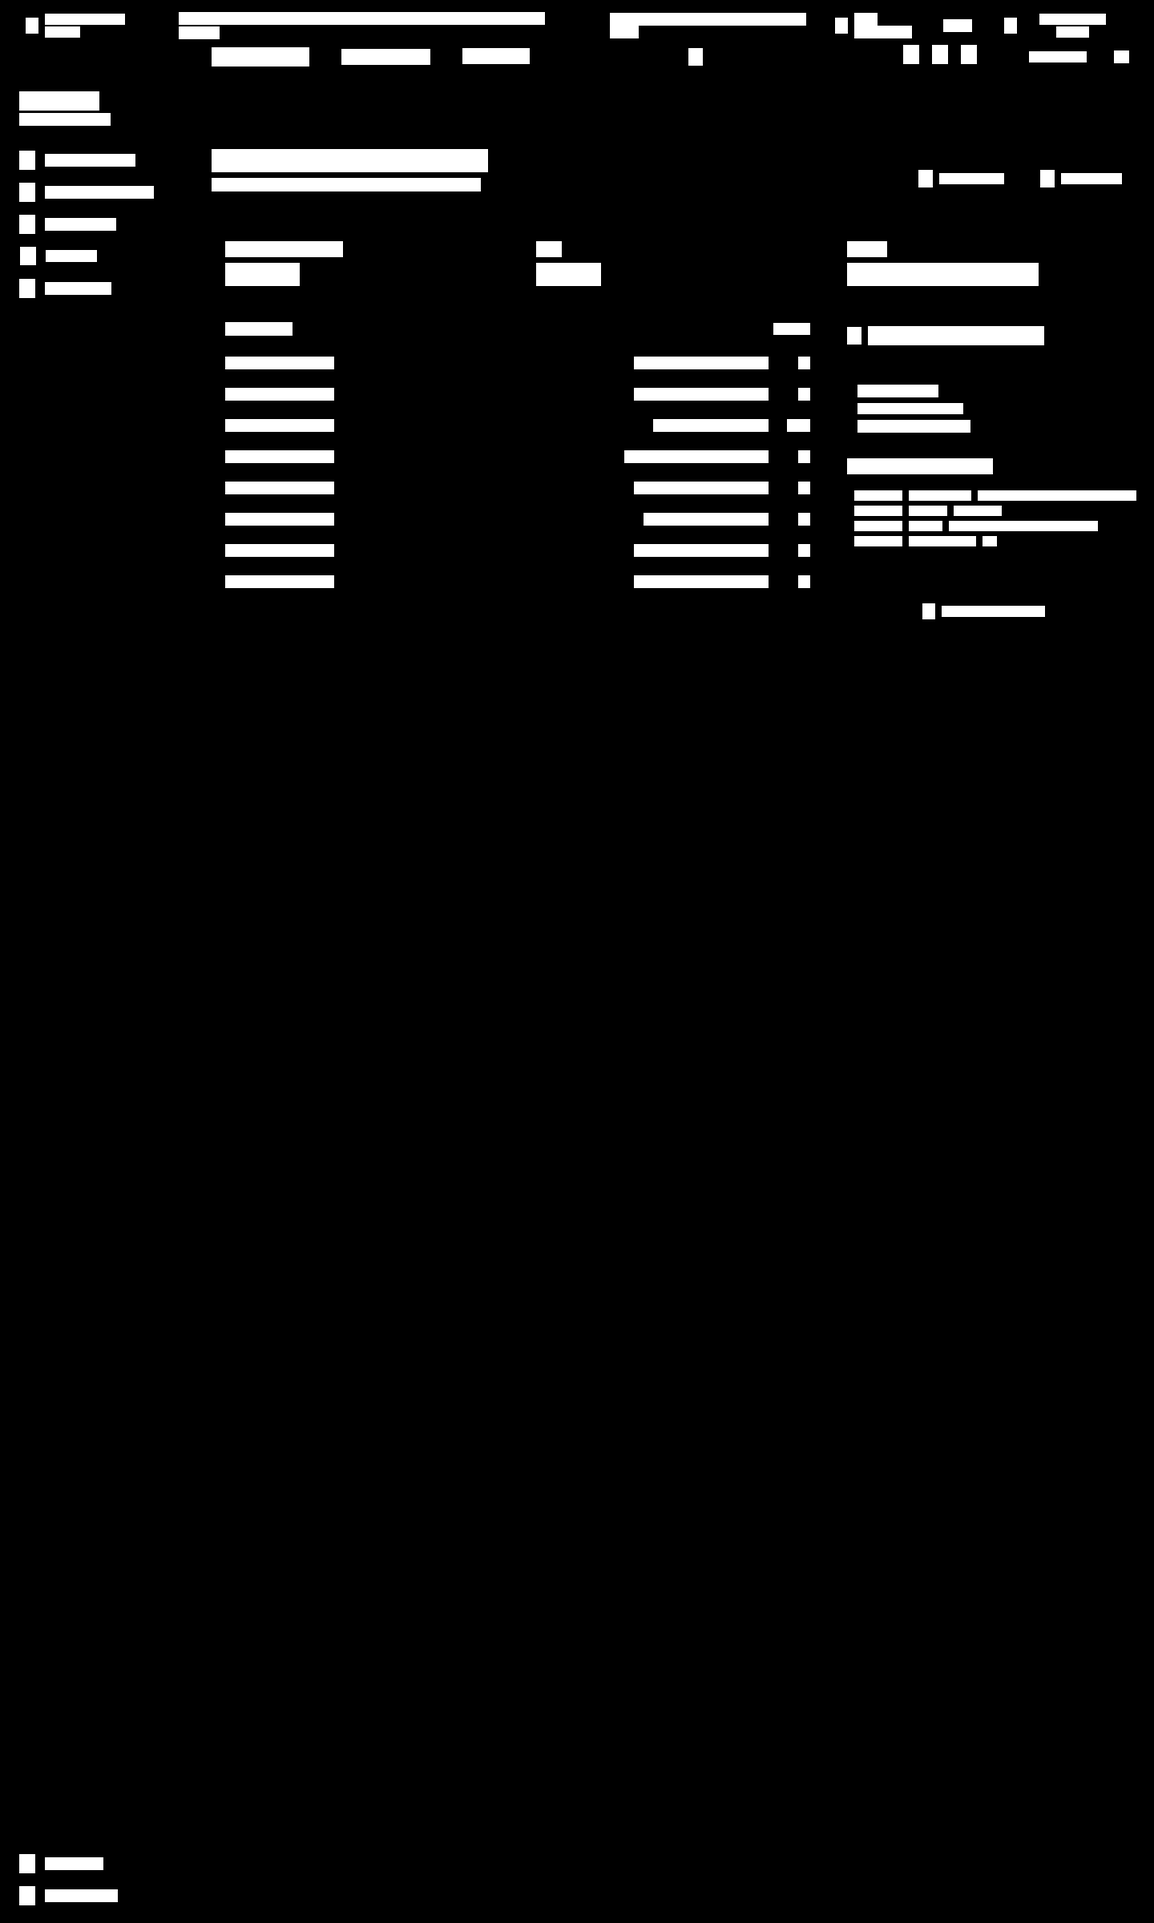
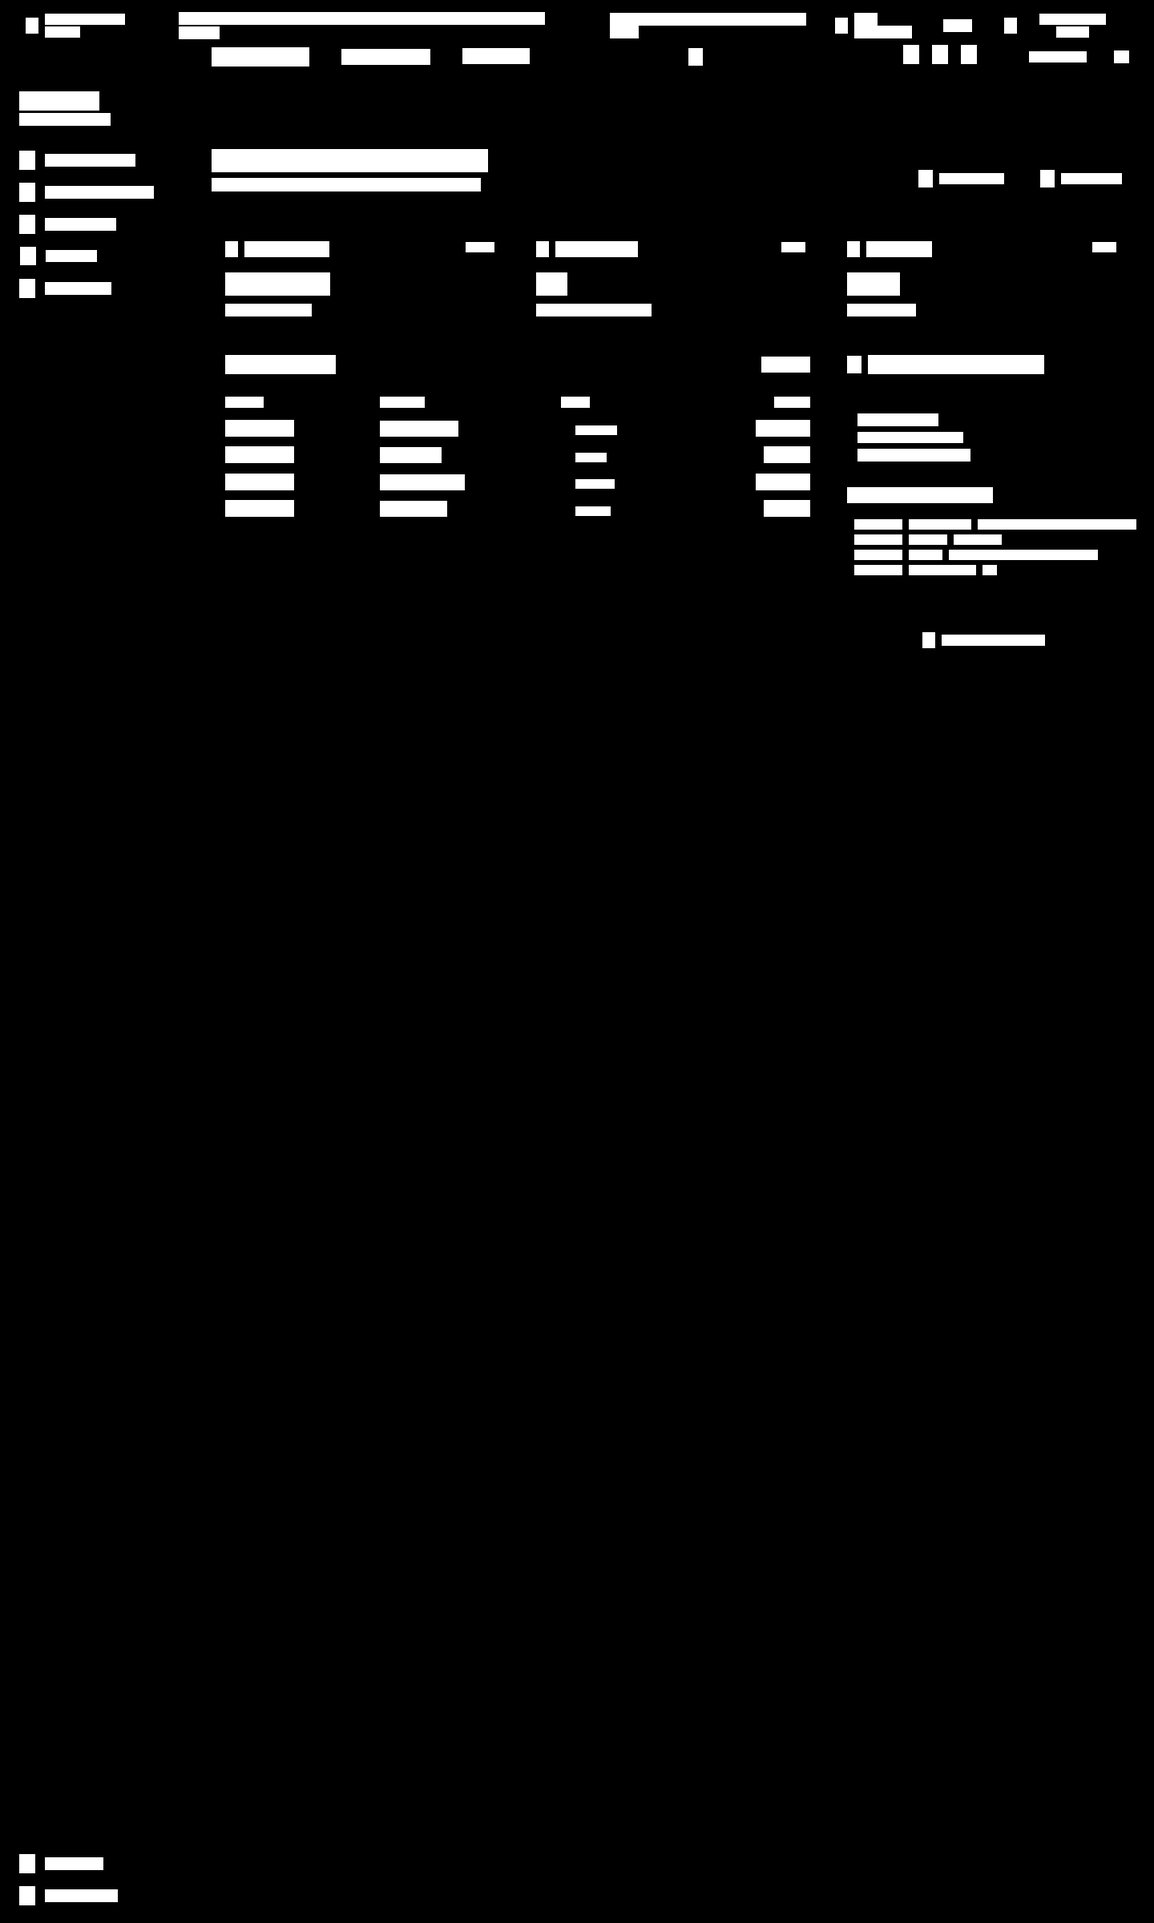
feat(ops): verbatim-port impersonation from Stitch 07 — 21.6% to 13.8%
按同一套铁律移植稿子 07 的 <main>：3 张指标卡 + 左宽表 + 右 Impersonation Context。
稿子那三张卡是商户业务数据（Total Revenue / Active Orders / Customers），/ops/* 无接口 ——
结构照搬，字段换成真有数据源的 订阅状态 / 套餐 / 归属；左表同理用店铺审计事件。

壳层按稿子 07 实测修正：横幅 64px 通栏，**侧栏紧接其下（65 起）而非 112**，
顶栏只覆盖内容区不压侧栏。OpsShell 的 sidebarTop / contentTop / insetLeft 分开算。

遮罩后：impersonation 21.59% → 13.83%；shop_detail 保持 7.17%。

diff --git a/apps/ops/app/impersonation/page.tsx b/apps/ops/app/impersonation/page.tsx
@@ -3,7 +3,16 @@
 import { Suspense, useEffect, useMemo, useState } from 'react';
 import Link from 'next/link';
 import { useSearchParams } from 'next/navigation';
-import { ExternalLink, LogOut, ShieldAlert, Timer } from 'lucide-react';
+import {
+  CreditCard,
+  ExternalLink,
+  LogOut,
+  Package,
+  ScrollText,
+  ShieldAlert,
+  Timer,
+  User,
+} from 'lucide-react';
 import { AuthGate } from '@/app/components/auth-gate';
 import { OpsShell } from '@/app/components/shell';
 import {
@@ -39,7 +48,7 @@ function ImpersonationPage() {
       .then(setDetail)
       .catch(() => undefined);
     opsFetch<AuditLogPage>(
-      `/ops/audit-logs?q=${encodeURIComponent(shop)}&action=shop.impersonate&limit=6&offset=0`,
+      `/ops/audit-logs?q=${encodeURIComponent(shop)}&limit=4&offset=0`,
     )
       .then(setAudit)
       .catch(() => undefined);
@@ -100,103 +109,185 @@ function ImpersonationPage() {
   return (
     <AuthGate>
       <OpsShell active="impersonation" padded={false} banner={banner}>
-        <div className="flex min-h-full flex-col gap-4 overflow-auto p-4 md:p-6">
-          {/* 店铺概览 */}
-          <div className="grid grid-cols-1 gap-4 lg:grid-cols-3">
-            <div className="bg-primary-container border-outline-variant rounded-lg border p-4">
-              <div className="text-on-surface-variant font-label-caps mb-1 text-[10px] uppercase">
-                Subscription Status
+        {/* 逐字移植自 designs/07_Active_Support_Session_(Impersonation).html 的 <main>。
+            稿子那三张卡是商户业务数据（Total Revenue / Active Orders / Customers），
+            /ops/* 无对应接口 —— 结构照搬，字段换成我们真有数据源的三项。
+            左表同理：稿子是 Recent Orders，我们用店铺审计事件。 */}
+        <main className="bg-background flex-1 overflow-y-auto p-[24px]">
+          <div className="mx-auto max-w-7xl space-y-6">
+            {/* Dashboard Header */}
+            <div className="border-outline-variant flex items-end justify-between border-b pb-4">
+              <div>
+                <h1 className="font-display-sm text-display-sm text-on-surface m-0">
+                  {shop || '—'} 支援会话
+                </h1>
+                <p className="font-body-md text-body-md text-on-surface-variant m-0 mt-1">
+                  以商户视角排查问题，本会话全程写审计。
+                </p>
               </div>
-              <div className="text-on-surface font-display text-2xl font-bold">
-                {detail?.status?.toUpperCase() ?? '—'}
+              <div className="flex gap-3">
+                <button
+                  type="button"
+                  onClick={openMerchant}
+                  className="bg-surface-container text-on-surface border-outline-variant hover:bg-surface-variant font-label-caps text-label-caps flex items-center gap-2 rounded border px-4 py-2 transition-colors"
+                >
+                  <ExternalLink className="h-[18px] w-[18px]" aria-hidden="true" />
+                  进入商户端
+                </button>
+                <button
+                  type="button"
+                  onClick={() => {
+                    clearToken();
+                    window.location.href = '/login';
+                  }}
+                  className="bg-primary text-on-primary hover:bg-primary/90 font-label-caps text-label-caps flex items-center gap-2 rounded px-4 py-2 transition-colors"
+                >
+                  <LogOut className="h-[18px] w-[18px]" aria-hidden="true" />
+                  结束会话
+                </button>
               </div>
             </div>
-            <div className="bg-primary-container border-outline-variant rounded-lg border p-4">
-              <div className="text-on-surface-variant font-label-caps mb-1 text-[10px] uppercase">
-                Plan
-              </div>
-              <div className="text-on-surface font-data-mono text-sm">
-                {detail?.planName ?? detail?.planCode ?? '—'}
-              </div>
-            </div>
-            <div className="bg-primary-container border-outline-variant rounded-lg border p-4">
-              <div className="text-on-surface-variant font-label-caps mb-1 text-[10px] uppercase">
-                Owner
-              </div>
-              <div className="text-on-surface font-data-mono text-sm">
-                {detail?.ownerEmail ?? '—'}
-              </div>
-            </div>
-          </div>
 
-          {/* 稿子屏 07：左宽表 + 右 Impersonation Context */}
-          <div className="grid flex-1 grid-cols-1 gap-4 lg:grid-cols-3">
-            <div className="bg-primary-container border-outline-variant rounded-lg border lg:col-span-2">
-              <div className="border-outline-variant flex items-center justify-between border-b px-4 py-3">
-                <h2 className="text-on-surface m-0 text-sm font-bold">最近店铺事件</h2>
-                <Link href="/audit" className="text-secondary text-[12px] no-underline">
-                  View All
-                </Link>
+            {/* Bento Grid Layout */}
+            <div className="grid grid-cols-12 gap-[12px]">
+            <div className="bg-primary-container border-outline-variant group relative col-span-12 overflow-hidden rounded border p-4 md:col-span-4">
+              <div className="from-primary/5 pointer-events-none absolute inset-0 bg-gradient-to-br to-transparent" />
+              <div className="relative z-10 mb-4 flex items-start justify-between">
+                <div className="text-on-surface-variant font-body-sm flex items-center gap-2">
+                  <CreditCard className="h-4 w-4" aria-hidden="true" /> 订阅状态
+                </div>
               </div>
-              <div className="flex flex-col">
-                {(audit?.items ?? []).map((row) => (
-                  <div
-                    key={row.id}
-                    className="border-outline-variant font-data-mono text-on-surface-variant flex items-center justify-between gap-3 border-b px-4 py-2.5 text-[12px] last:border-b-0"
+              <div className="font-display-sm text-display-sm text-on-surface relative z-10">{detail?.status?.toUpperCase() ?? '—'}</div>
+              <div className="text-data-mono font-data-mono text-on-surface-variant/70 mt-2 text-[10px]">当前 Shopify 订阅状态</div>
+            </div>
+            <div className="bg-primary-container border-outline-variant group relative col-span-12 overflow-hidden rounded border p-4 md:col-span-4">
+              <div className="from-secondary/5 pointer-events-none absolute inset-0 bg-gradient-to-br to-transparent" />
+              <div className="relative z-10 mb-4 flex items-start justify-between">
+                <div className="text-on-surface-variant font-body-sm flex items-center gap-2">
+                  <Package className="h-4 w-4" aria-hidden="true" /> 套餐
+                </div>
+              </div>
+              <div className="font-display-sm text-display-sm text-on-surface relative z-10">{detail?.planName ?? detail?.planCode ?? '—'}</div>
+              <div className="text-data-mono font-data-mono text-on-surface-variant/70 mt-2 text-[10px]">本店计费套餐</div>
+            </div>
+            <div className="bg-primary-container border-outline-variant group relative col-span-12 overflow-hidden rounded border p-4 md:col-span-4">
+              <div className="from-tertiary/5 pointer-events-none absolute inset-0 bg-gradient-to-br to-transparent" />
+              <div className="relative z-10 mb-4 flex items-start justify-between">
+                <div className="text-on-surface-variant font-body-sm flex items-center gap-2">
+                  <User className="h-4 w-4" aria-hidden="true" /> 归属
+                </div>
+              </div>
+              <div className="font-display-sm text-display-sm text-on-surface relative z-10">{detail?.ownerEmail ?? '—'}</div>
+              <div className="text-data-mono font-data-mono text-on-surface-variant/70 mt-2 text-[10px]">账号所有者</div>
+            </div>
+
+              {/* Recent Events Table (Dense) */}
+              <div className="bg-surface-container border-outline-variant col-span-12 flex flex-col rounded border lg:col-span-8">
+                <div className="border-outline-variant flex items-center justify-between border-b p-4">
+                  <h2 className="font-headline-md text-headline-md text-on-surface m-0">最近店铺事件</h2>
+                  <Link href="/audit" className="text-primary font-body-sm no-underline hover:underline">
+                    全部
+                  </Link>
+                </div>
+                <div className="flex-1 overflow-x-auto">
+                  <table className="font-body-sm w-full text-left">
+                    <thead className="text-on-surface-variant font-label-caps text-label-caps border-outline-variant bg-surface-container-highest sticky top-0 border-b">
+                      <tr>
+                        <th className="px-4 py-2 font-medium">时间</th>
+                        <th className="px-4 py-2 font-medium">操作者</th>
+                        <th className="px-4 py-2 font-medium">动作</th>
+                        <th className="px-4 py-2 text-right font-medium">结果</th>
+                      </tr>
+                    </thead>
+                    <tbody className="divide-outline-variant/50 divide-y">
+                      {(audit?.items ?? []).map((row) => {
+                        const failed = row.result !== 'ok';
+                        return (
+                          <tr
+                            key={row.id}
+                            className={`hover:bg-surface-variant/50 h-[32px] transition-colors${failed ? ' bg-error/5' : ''}`}
+                          >
+                            <td className="font-data-mono text-primary px-4 py-1">
+                              {row.createdAt.slice(11, 19)}
+                            </td>
+                            <td className="text-on-surface px-4 py-1">{row.actorEmail}</td>
+                            <td className="px-4 py-1">
+                              <span
+                                className={
+                                  failed
+                                    ? 'bg-error/10 text-error font-label-caps inline-flex items-center gap-1 rounded px-2 py-0.5 text-[10px]'
+                                    : 'bg-primary/10 text-primary font-label-caps inline-flex items-center gap-1 rounded px-2 py-0.5 text-[10px]'
+                                }
+                              >
+                                <span className={failed ? 'bg-error h-1.5 w-1.5 rounded-full' : 'bg-primary h-1.5 w-1.5 rounded-full'} />
+                                {formatAuditAction(row.action)}
+                              </span>
+                            </td>
+                            <td className="font-data-mono px-4 py-1 text-right">
+                              {failed ? 'FAIL' : 'OK'}
+                            </td>
+                          </tr>
+                        );
+                      })}
+                    </tbody>
+                  </table>
+                </div>
+              </div>
+
+              {/* Admin Audit Context Pane */}
+              <div className="bg-surface-container-highest border-amber-500/50 relative col-span-12 flex flex-col overflow-hidden rounded border shadow-[0_0_15px_rgba(245,158,11,0.05)] lg:col-span-4">
+                <div className="from-amber-500/0 via-amber-500 to-amber-500/0 absolute left-0 top-0 h-1 w-full bg-gradient-to-r opacity-50" />
+                <div className="border-outline-variant bg-surface-container-low flex items-center justify-between border-b p-4">
+                  <h2 className="font-headline-md text-headline-md text-amber-500 m-0 flex items-center gap-2">
+                    <ShieldAlert className="h-[18px] w-[18px]" aria-hidden="true" />
+                    Impersonation Context
+                  </h2>
+                </div>
+                <div className="flex-1 space-y-4 p-4">
+                  <div className="bg-surface-container border-outline-variant text-body-sm rounded border p-3">
+                    <div className="text-on-surface-variant font-label-caps mb-1">Target Merchant</div>
+                    <div className="font-data-mono text-on-surface text-[11px]">Store: {shop || '—'}</div>
+                    <div className="mt-1 font-medium">{email || '—'}</div>
+                  </div>
+                  <div>
+                    <div className="text-on-surface-variant font-label-caps mb-2">
+                      Live Audit Trail
+                    </div>
+                    <div className="bg-canvas-deep border-card-border font-data-mono text-on-surface-variant/80 h-32 space-y-1 overflow-y-auto rounded border p-2 text-[10px]">
+                      <div className="flex gap-2">
+                        <span className="text-primary">[{remaining ?? '--:--'}]</span>
+                        <span>SESSION_START</span>
+                        <span className="text-on-surface truncate">INIT IMPERSONATION → {shop || '—'}</span>
+                      </div>
+                      <div className="flex gap-2">
+                        <span className="text-primary">[{remaining ?? '--:--'}]</span>
+                        <span>ACTOR</span>
+                        <span className="text-on-surface truncate">{email || '—'}</span>
+                      </div>
+                      <div className="flex gap-2">
+                        <span className="text-primary">[{remaining ?? '--:--'}]</span>
+                        <span>REASON</span>
+                        <span className="text-amber-400 truncate">{reason}</span>
+                      </div>
+                      <div className="flex gap-2">
+                        <span className="text-primary">[{remaining ?? '--:--'}]</span>
+                        <span className="animate-pulse text-amber-500">AWAITING_INPUT</span>
+                        <span className="text-on-surface">...</span>
+                      </div>
+                    </div>
+                  </div>
+                  <Link
+                    href="/audit"
+                    className="bg-surface-container hover:bg-surface-variant border-outline-variant text-on-surface font-label-caps text-label-caps mt-auto flex w-full items-center justify-center gap-2 rounded border py-2 no-underline transition-colors"
                   >
-                    <span className="text-on-surface shrink-0">
-                      {row.createdAt.slice(0, 19).replace('T', ' ')}
-                    </span>
-                    <span className="min-w-0 flex-1 truncate text-right">
-                      {row.actorEmail} · {formatAuditAction(row.action)}
-                    </span>
-                    <span
-                      className={
-                        row.result === 'ok'
-                          ? 'text-on-surface-variant w-10 shrink-0 text-right'
-                          : 'text-error w-10 shrink-0 text-right font-bold'
-                      }
-                    >
-                      {row.result === 'ok' ? 'OK' : 'FAIL'}
-                    </span>
-                  </div>
-                ))}
-                {!audit?.items.length ? (
-                  <div className="text-on-surface-variant px-4 py-6 text-[12px]">
-                    暂无代登录审计记录
-                  </div>
-                ) : null}
-              </div>
-            </div>
-
-            <div className="bg-primary-container border-amber-500 rounded-lg border">
-              <h2 className="text-amber-400 border-outline-variant m-0 flex items-center gap-2 border-b px-4 py-3 text-sm font-bold">
-                <ShieldAlert className="h-4 w-4" aria-hidden="true" />
-                Impersonation Context
-              </h2>
-              <div className="flex flex-col gap-4 p-4">
-                <div className="border-outline-variant bg-surface-container-high rounded border p-3">
-                  <div className="text-on-surface-variant font-label-caps mb-1 text-[10px] uppercase">
-                    Target Merchant
-                  </div>
-                  <div className="font-data-mono text-on-surface-variant text-[11px]">
-                    Store: {shop || '—'}
-                  </div>
-                  <div className="text-on-surface mt-1 text-[13px]">{email || '—'}</div>
-                </div>
-                <div>
-                  <div className="text-on-surface mb-2 text-[13px]">Live Audit Trail</div>
-                  <pre className="border-outline-variant bg-background text-on-surface-variant m-0 overflow-x-auto rounded border p-3 font-data-mono text-[11px] leading-relaxed">
-{`[${remaining ?? '--:--'}] SESSION_START  INIT IMPERSONATION → ${shop || '—'}
-[${remaining ?? '--:--'}] ACTOR          ${email || '—'}
-[${remaining ?? '--:--'}] REASON         ${reason}
-[${remaining ?? '--:--'}] AWAITING_INPUT ...`}
-                  </pre>
+                    <ScrollText className="h-4 w-4" aria-hidden="true" />
+                    查看完整审计日志
+                  </Link>
                 </div>
               </div>
             </div>
           </div>
-        </div>
+        </main>
       </OpsShell>
     </AuthGate>
   );

diff --git a/apps/ops/app/components/shell.tsx b/apps/ops/app/components/shell.tsx
@@ -50,10 +50,10 @@ function GlobalAuditBar({ offsetTop = 0 }: { offsetTop?: number }) {
  * spacing 令牌按 skill 门禁第 5 条不迁移，一律 arbitrary：
  * row-height-standard 48px / container-padding 24px。
  */
-function GlobalTopBar({ offsetTop = 0 }: { offsetTop?: number }) {
+function GlobalTopBar({ offsetTop = 0, insetLeft = 0 }: { offsetTop?: number; insetLeft?: number }) {
   return (
-    <header className="bg-surface-container-highest border-outline-variant fixed z-[60] flex h-[48px] w-full items-center justify-between border-b px-[24px]"
-      style={{ top: offsetTop }}>
+    <header className="bg-surface-container-highest border-outline-variant fixed z-[60] flex h-[48px] items-center justify-between border-b px-[24px]"
+      style={{ top: offsetTop, left: insetLeft, width: `calc(100% - ${insetLeft}px)` }}>
       <div className="flex h-full min-w-0 items-center gap-6">
         <span className="font-headline-md text-headline-md text-primary flex shrink-0 items-center whitespace-nowrap font-bold">
           drsell Admin
@@ -129,18 +129,23 @@ export function OpsShell({
 }: Props) {
   const showTopBar = !banner && (chrome === 'topbar' || chrome === 'both');
   const showAudit = !banner && (chrome === 'audit' || chrome === 'both');
-  const offset = banner ? 112 : (showTopBar ? 48 : 0) + (showAudit ? 32 : 0);
+  const chromeH = (showTopBar ? 48 : 0) + (showAudit ? 32 : 0);
+  // 稿子 07：横幅 64px 通栏，侧栏紧接其下；顶栏只覆盖内容区。
+  const sidebarTop = banner ? 64 : chromeH;
+  const contentTop = banner ? 112 : chromeH;
   return (
     <div className="bg-background min-h-screen">
       {banner ? (
         <div className="fixed top-0 z-[70] h-16 w-full">{banner}</div>
       ) : null}
-      {banner || showTopBar ? <GlobalTopBar offsetTop={banner ? 64 : 0} /> : null}
+      {banner || showTopBar ? (
+        <GlobalTopBar offsetTop={banner ? 64 : 0} insetLeft={banner ? 240 : 0} />
+      ) : null}
       {showAudit ? <GlobalAuditBar offsetTop={showTopBar ? 48 : 0} /> : null}
-      <OpsSidebar active={active} offsetTop={offset} />
+      <OpsSidebar active={active} offsetTop={sidebarTop} />
       <div
         className="ml-[240px] flex min-h-screen min-w-0 flex-col"
-        style={{ paddingTop: offset }}
+        style={{ paddingTop: contentTop }}
       >
         <main
           className={
